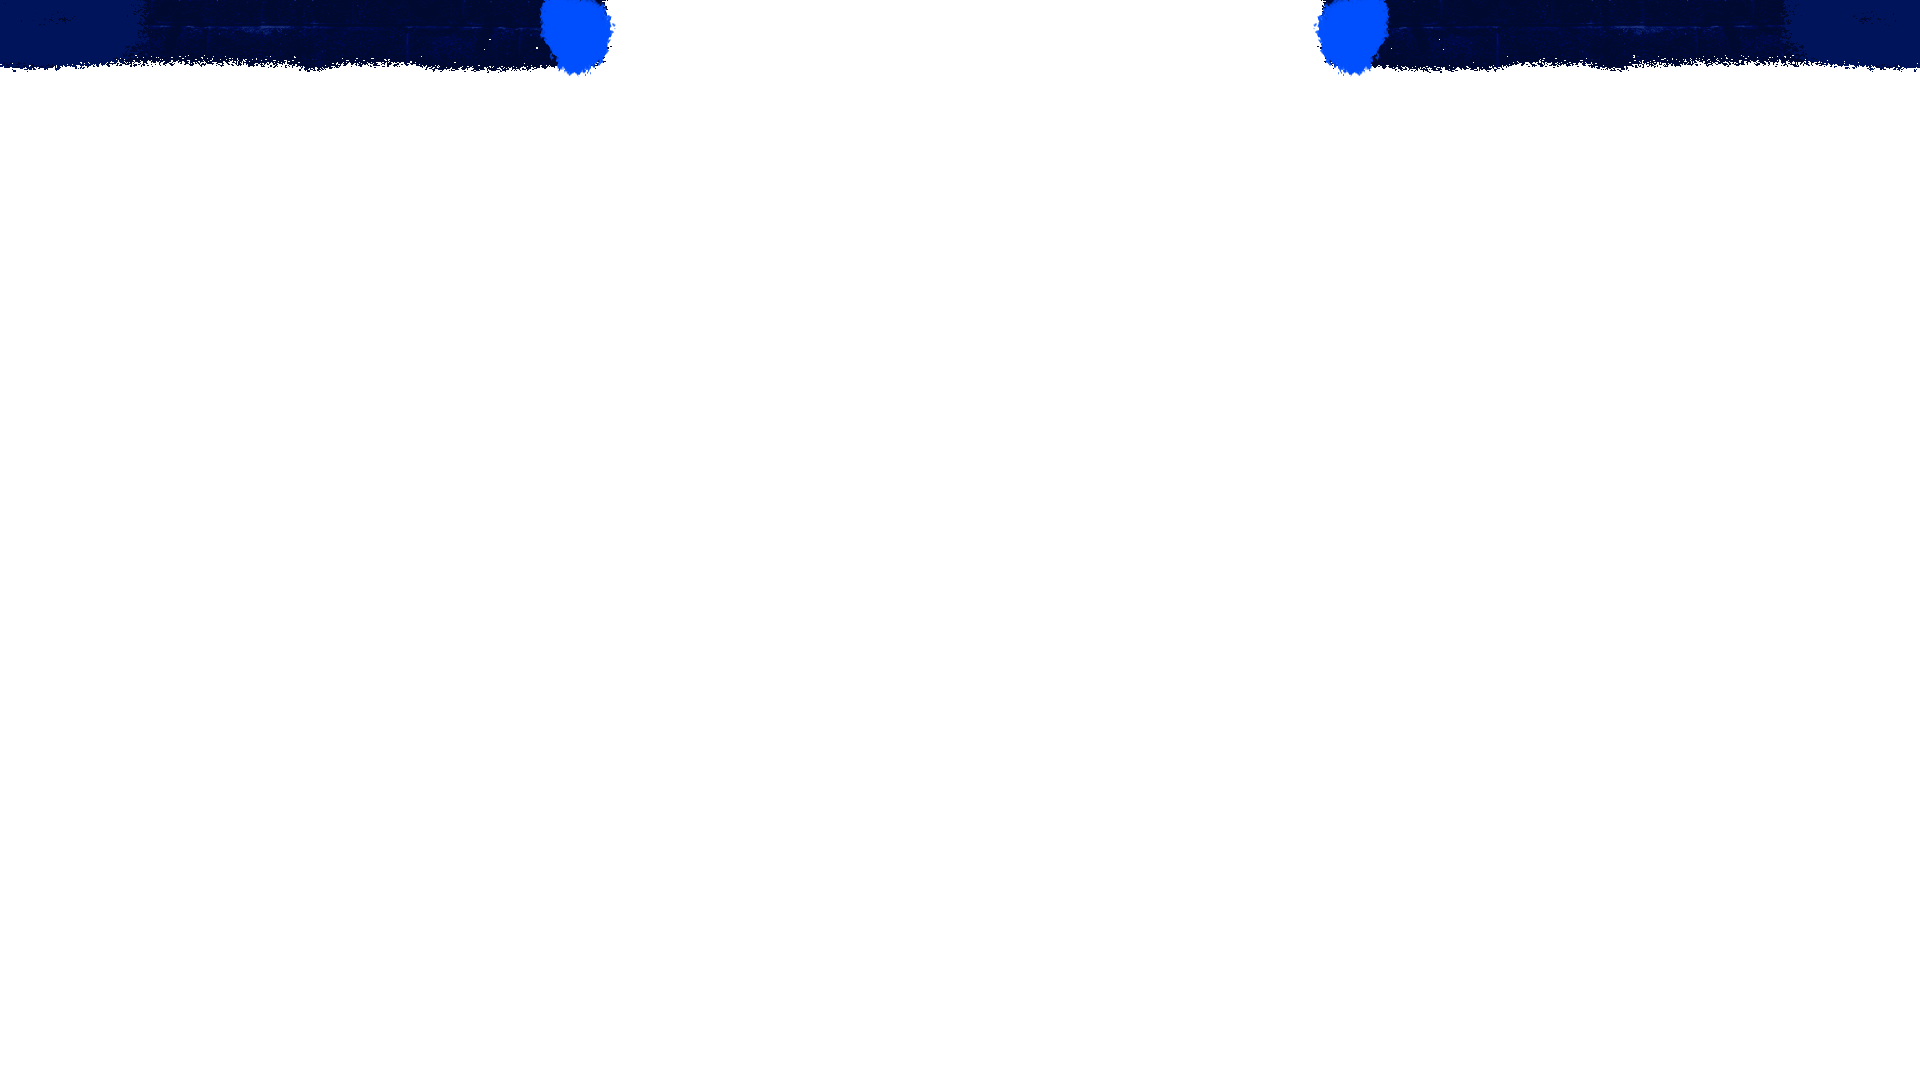
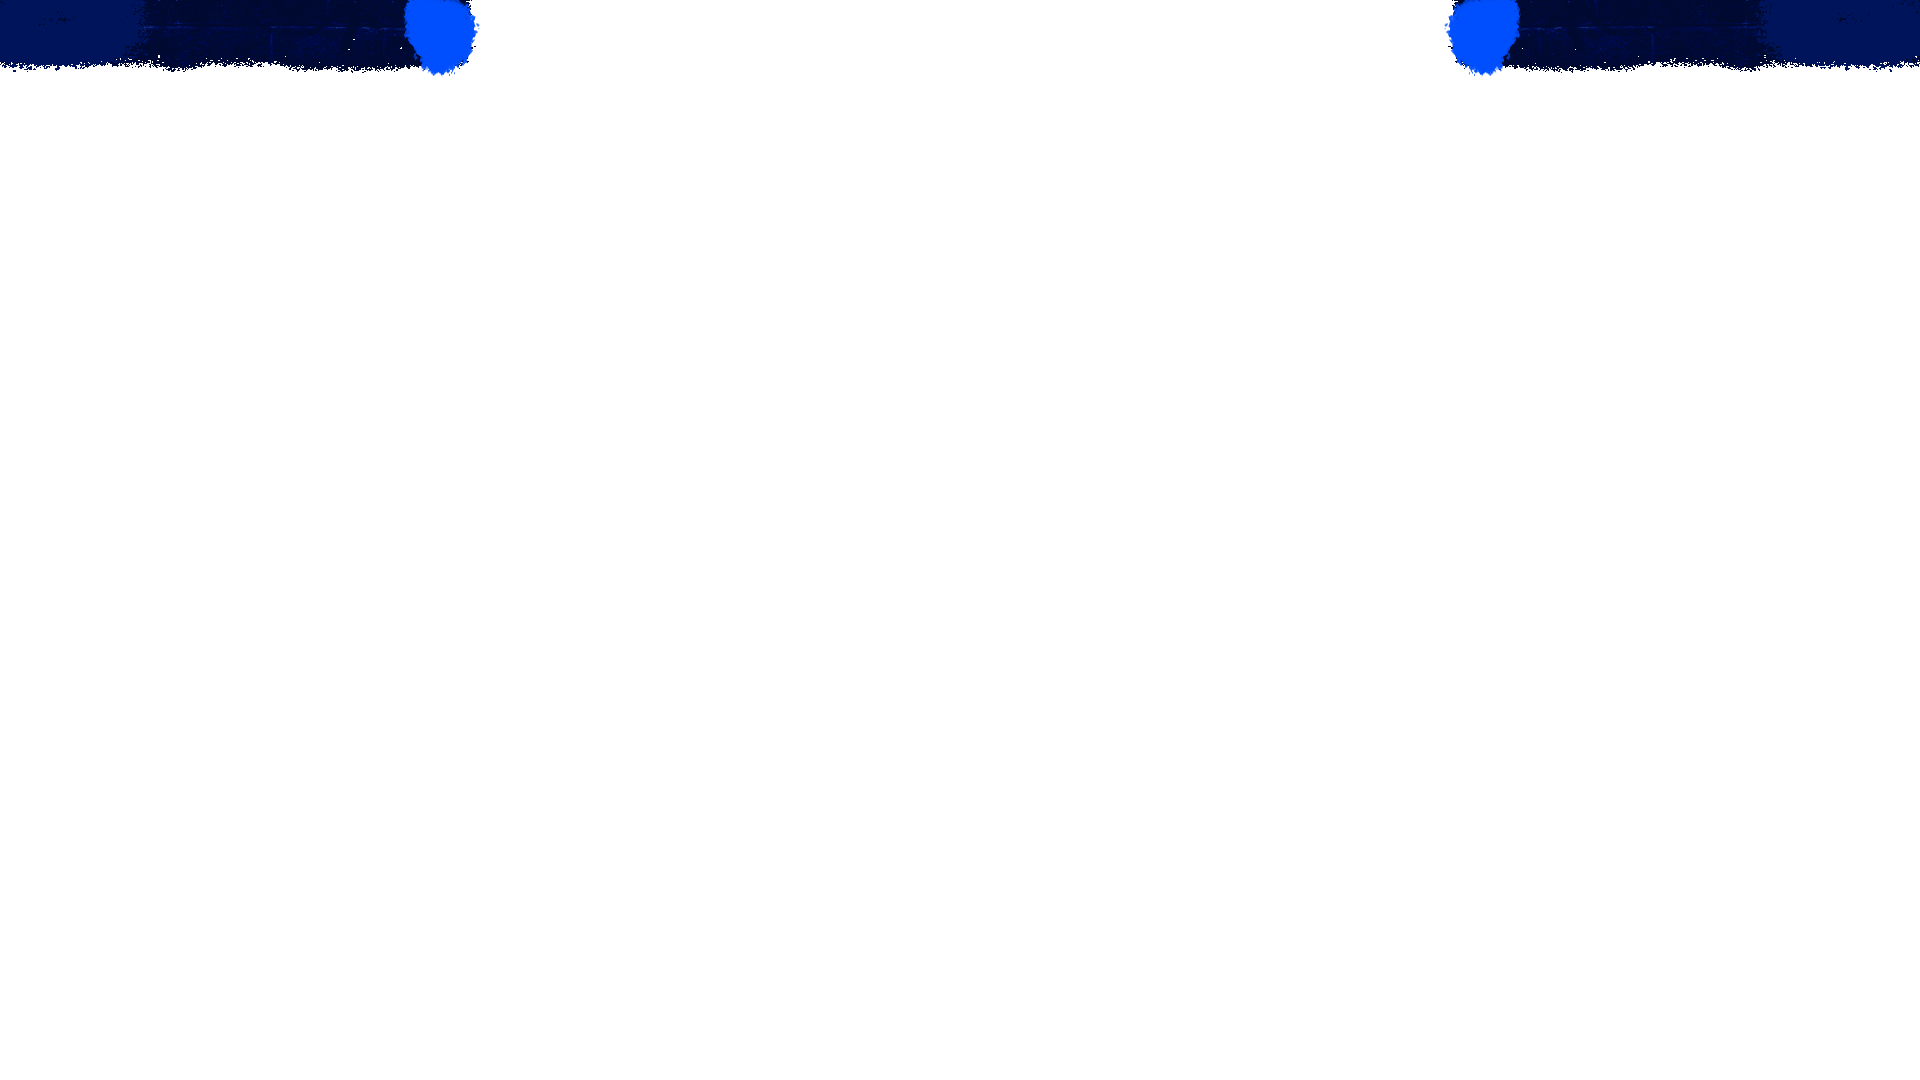
fix(overlay): update assets

Changed region(s): [[0.0625, 0.0, 0.3438, 0.0917], [0.6875, 0.0, 0.9375, 0.0917]]

diff --git a/apps/overlay/src/scenes/allg/ingame/lol/Lol.ingame.team.tsx b/apps/overlay/src/scenes/allg/ingame/lol/Lol.ingame.team.tsx
@@ -14,7 +14,7 @@ const LolIngameTeam = ({ side, ...props }: Props) => {
 
   const textAlign = side == "teamA" ? "left" : "right"
   const flexDirection = side == "teamA" ? "row" : "row-reverse"
-  const width = side == "teamA" ? 615 : 608
+  const width = side == "teamA" ? 478 : 474
   const reverseProps: GroupProps["sx"] = {
     textAlign,
     flexDirection,
@@ -40,7 +40,12 @@ const LolIngameTeam = ({ side, ...props }: Props) => {
           flexShrink: 0,
         }}
       />
-      <Group spacing={10} sx={{ flex: 1, flexDirection, letterSpacing: 4 }}>
+      <Group
+        spacing={10}
+        sx={{ flex: 1, flexDirection, letterSpacing: 4 }}
+        w="100%"
+        noWrap
+      >
         <Text sx={{ fontFamily: "Subway", color: "#ffd200" }} size={38}>
           {team.shortcode}
         </Text>
